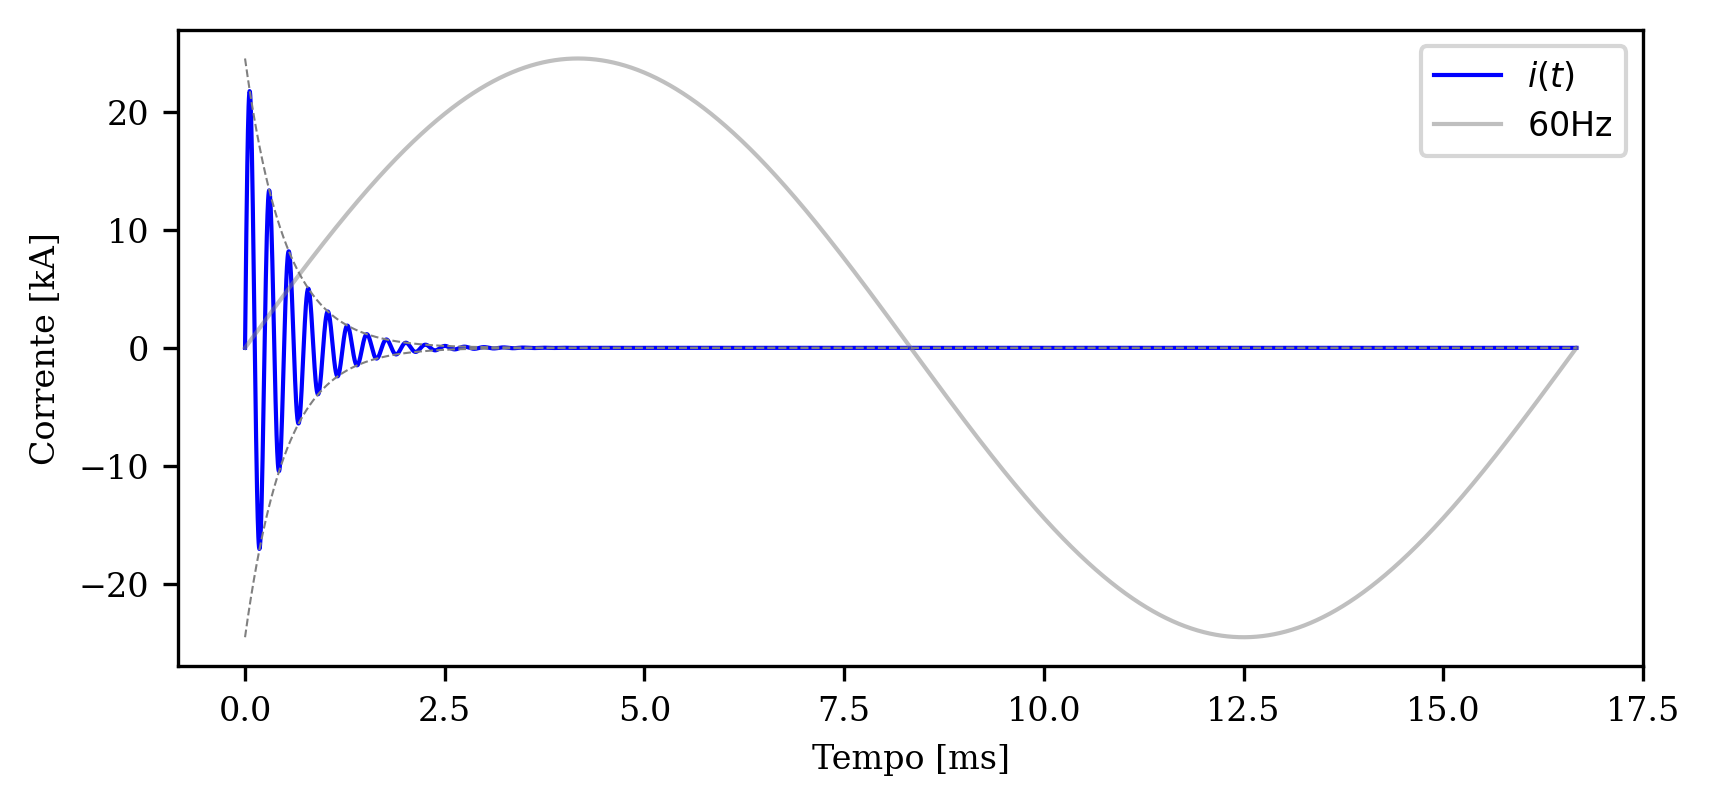
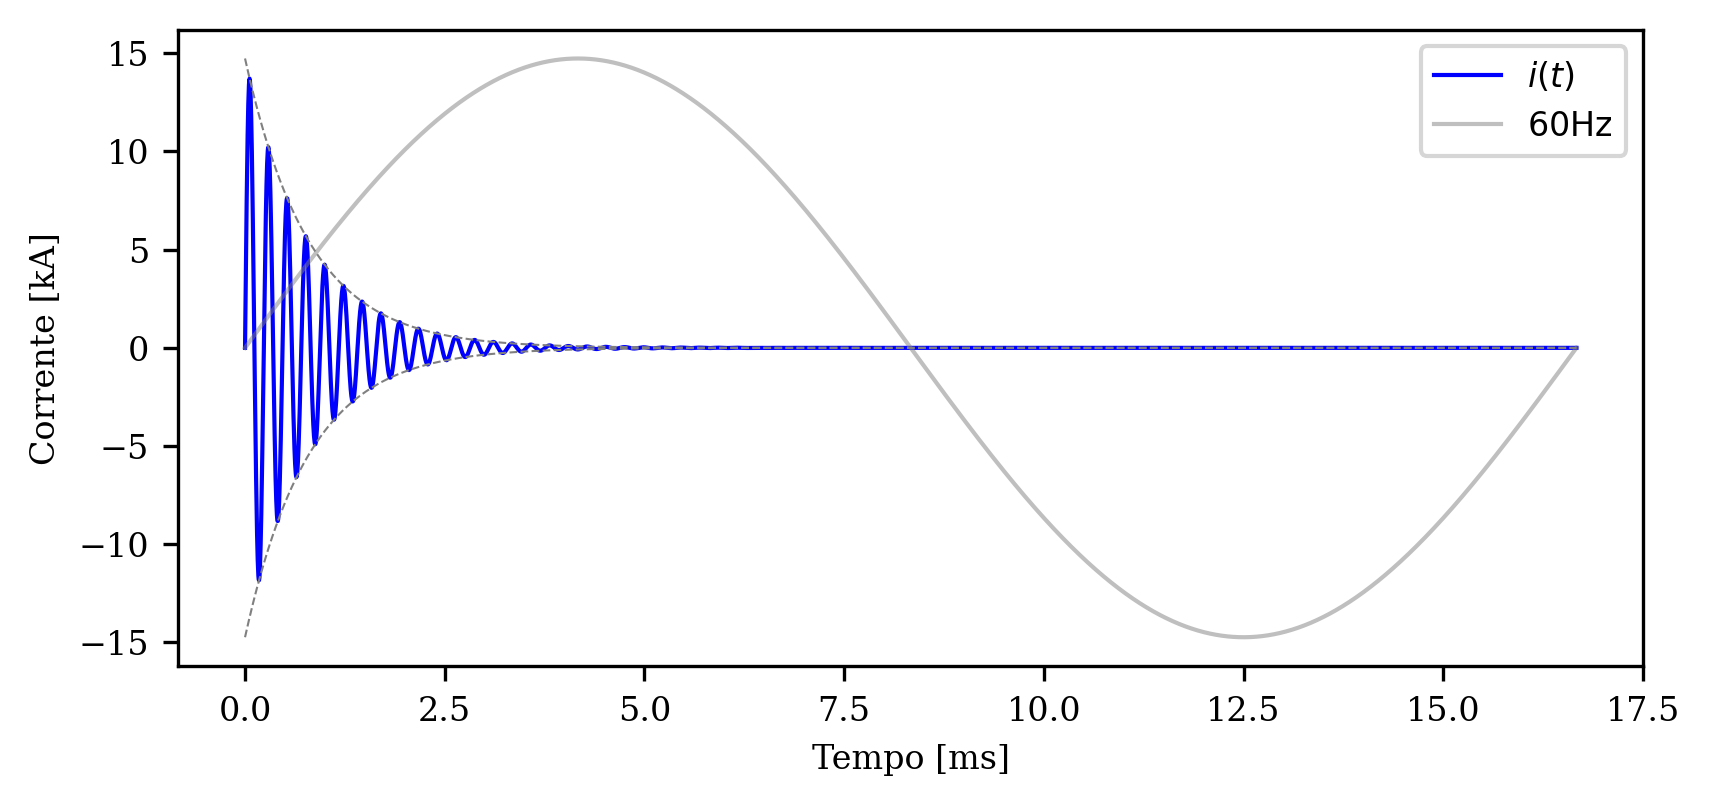
tensao transitoria

diff --git a/back_to_back_v7.py b/back_to_back_v7.py
@@ -4,20 +4,19 @@ aah@dax.energy
 """
 # cuidado
 INDUTOR_DEFAULT = 15.0
-REATIVOS_DEFAULT = 5.4
+REATIVOS_DEFAULT = 5.0
 TENSAO_DEFAULT = 13.8
-NUM_BANCOS_DEFAULT = 4
+NUM_BANCOS_DEFAULT = 2
 CORRENTE_CURTO_DEFAULT = 1000.0
 R_EQ_PARA_AMORTECIMENTO = 0.1
-
 
 import config
 import streamlit as st
 import shutil
 import matplotlib as mpl
+
 mpl.rcParams['font.family'] = 'serif'
 from funcoes_auxiliares import *
-
 
 # Set the language and locale
 text, language_key, format_number = config.configure_language_and_locale()
@@ -40,8 +39,7 @@ with col0:
     if V_ff is None or f_fund is None or I_curto_circuito is None:
         st.error("Por favor, insira valores válidos.")
 
-    nr_bancos = st.slider(text["number_of_banks"], min_value=2, max_value=20, value=5)
-
+    nr_bancos = st.slider(text["number_of_banks"], min_value=2, max_value=20, value=NUM_BANCOS_DEFAULT)
 
     V_fn = V_ff / np.sqrt(3)
     w_fund = 2 * np.pi * f_fund
@@ -100,9 +98,6 @@ with cols[ii]:
                                    key="L_reator" + str(k))
     L_reator[k] = parse_input(L_reator_input, language_key) * 1e-6 if L_reator_input else None
 
-
-
-
 # st.markdown(r"#### Bancos já energizados $(\#1$ ao $\#n)$")
 st.markdown(text["already_energized_banks"])  # "#### Bancos já energizados $(\#1$ ao $\#n)$"
 cols = st.columns(5)
@@ -157,15 +152,10 @@ for k in range(1, nr_bancos):
         )
         L_reator[k] = parse_input(L_reator_input, language_key) * 1e-6 if L_reator_input else None
 
-
-
-
-
-
-
 # ===============================================================================================
 # === serve para o isolado e o back-to-back
 soma_Q_3f = sum(Q_3f)
+
 Q_1f = Q_3f / 3
 I_fn = Q_1f / V_fn
 X = V_fn / I_fn
@@ -177,46 +167,41 @@ L = L_barra_mais_cabo + L_capacitor + L_reator
 X_curto_circuito = V_fn / I_curto_circuito
 L_curto_circuito = X_curto_circuito / w_fund
 L_eq_isolado = L_curto_circuito + L[0]
-w_isolado = 1 / np.sqrt( L_eq_isolado * C[0] )
+w_isolado = 1 / np.sqrt(L_eq_isolado * C[0])
 num_i = V_fn * np.sqrt(2)
 den_i = L_eq_isolado * w_isolado
 i_pico_inicial_isolado = FC * num_i / den_i
 
 # === back-to-back ===
 df, i_curto, i_pico_inicial, sigma, omega, t, i_pico_inicial_list = \
-    calcular_back_to_back(C, L, R_EQ_PARA_AMORTECIMENTO, \
-                          V_fn, FC, I_fn, w_isolado, i_pico_inicial_isolado, \
+    calcular_back_to_back(C, L, R_EQ_PARA_AMORTECIMENTO,
+                          V_fn, FC, I_fn, w_isolado, i_pico_inicial_isolado,
                           nr_bancos, Q_3f, Q_1f, V_ff, X, L_reator
-    )
-
+                          )
 
 i_pico_inicial_todos_pu = np.array([i_pico_inicial_isolado] + i_pico_inicial_list) / (I_fn * np.sqrt(2))
 
-
 # Gera o gráfico
-fig = plot_inrush(t, i_curto, i_pico_inicial, sigma, f_fund, text)
+fig = plot_inrush(t, i_curto, i_pico_inicial, omega, sigma, f_fund, text, X_curto_circuito, X, I_fn)
 st.plotly_chart(fig, use_container_width=True)
-
-
-
 
 st.markdown(text["results"])
 
 st.write(text["nominal_current"], format_input(I_fn[0], language_key), "A")
 st.markdown(text["for_single_bank"])
 corrente_pico_bancos_isolado = i_pico_inicial_isolado / (I_fn[0] * np.sqrt(2))
-st.write(text["peak_current_energization"], format_input(i_pico_inicial_isolado, language_key), "${\\rm A}$   (", format_input(np.round(corrente_pico_bancos_isolado, 1), language_key), "$\\times I_{\\rm{rated}}$)")
-st.write(text["oscillation_frequency"], format_input(w_isolado / (2 * np.pi), language_key), "${\\rm Hz}$   (", format_input(np.round(w_isolado / w_fund, 1), language_key), "$\\times f_1$)")
+st.write(text["peak_current_energization"], format_input(i_pico_inicial_isolado, language_key), "${\\rm A}$   (",
+         format_input(np.round(corrente_pico_bancos_isolado, 1), language_key), "$\\times I_{\\rm{rated}}$)")
+st.write(text["oscillation_frequency"], format_input(w_isolado / (2 * np.pi), language_key), "${\\rm Hz}$   (",
+         format_input(np.round(w_isolado / w_fund, 1), language_key), "$\\times f_1$)")
 
 st.markdown(text["for_bank_with_others_energized"])
 corrente_pico_bancos_back_to_back = i_pico_inicial / (I_fn * np.sqrt(2))
-st.write(text["peak_current_energization"], format_input(i_pico_inicial, language_key), "${\\rm A}$   (", format_input(np.round(corrente_pico_bancos_back_to_back.max(), 1), language_key), "$\\times I_{\\rm{rated}}$)")
+st.write(text["peak_current_energization"], format_input(i_pico_inicial, language_key), "${\\rm A}$   (",
+         format_input(np.round(corrente_pico_bancos_back_to_back.max(), 1), language_key), "$\\times I_{\\rm{rated}}$)")
 freq_oscilacao = omega / (2 * np.pi)
-st.write(text["oscillation_frequency"], str(int(freq_oscilacao)), "${\\rm Hz}$   (", format_input(np.round(omega / w_fund, 1), language_key), "$\\times f_1$)")
-
-
-
-
+st.write(text["oscillation_frequency"], str(int(freq_oscilacao)), "${\\rm Hz}$   (",
+         format_input(np.round(omega / w_fund, 1), language_key), "$\\times f_1$)")
 
 st.markdown(text["conclusion"])
 
@@ -225,7 +210,7 @@ st.markdown(text["conclusion_text"])
 maxima_corrente_de_pico_dos_bancos = max(corrente_pico_bancos_isolado, corrente_pico_bancos_back_to_back.max())
 
 maxima_corrente_str = config.format_number(maxima_corrente_de_pico_dos_bancos, language_key)
-freq_oscilacao_str  = str(int(freq_oscilacao))
+freq_oscilacao_str = str(int(freq_oscilacao))
 
 if maxima_corrente_de_pico_dos_bancos < 100 and freq_oscilacao < 4250:
     conclusao1 = (text["adequate_reactor"] + maxima_corrente_str + "$\\le 100$ e $f_{\\rm osc} = $" +
@@ -236,9 +221,7 @@ else:
                   freq_oscilacao_str + "Hz > 4,25 kHz, " +
                   "IEEE Std C37.012, p. 16[$^{[2]}$](https://ieeexplore.ieee.org/document/7035261) e IEC 62271-100, Table 9 (Preferred values of rated capacitive switching currents), p. 45[$^{[3]}$](https://webstore.iec.ch/publication/62785).")
 
-
 st.write(conclusao1)
-
 
 st.markdown(text["bibliography"])
 col_bib1, col_bib2 = st.columns([1, 25])
@@ -286,15 +269,15 @@ with colunas[1]:
     """
 # ===============================================================================================================
 import relatorio
+
 base_filename = 'TEMPLATE_Relatorio_Inrush_DAX'
 arquivo_original_tex = f"{base_filename}_{language_key}.tex"
 relatorio.gerar_figura(t, i_pico_inicial, sigma, omega, f_fund)
 nome_arquivo_saida = f'Report_Inrush_DAX_{REATIVOS_DEFAULT}kVAr_{TENSAO_DEFAULT}kV_uH{INDUTOR_DEFAULT}'
 
-
 if st.button(text["latex_report"]):
     arquivo_original_tex = f"{base_filename}_{language_key}.tex"
-    arquivo_copiado_tex = nome_arquivo_saida+'.tex'
+    arquivo_copiado_tex = nome_arquivo_saida + '.tex'
     shutil.copy(arquivo_original_tex, arquivo_copiado_tex)
 
     valores = relatorio.format_values(
@@ -325,4 +308,3 @@ if st.button(text["latex_report"]):
     )
 
     st.write(text["use_xelatex_compiler"])
-

diff --git a/funcoes_auxiliares.py b/funcoes_auxiliares.py
@@ -154,19 +154,19 @@ def calcular_back_to_back(C, L, R_EQ_PARA_AMORTECIMENTO, V_fn, FC, I_fn, w_isola
 import plotly.graph_objects as go
 import numpy as np
 
-def plot_inrush(t, i_curto, i_pico_inicial, sigma, f_fund, text):
+def plot_inrush(t, i_curto, i_pico_inicial, omega, sigma, f_fund, text, X_curto_circuito, X, I_fn):
     fig = go.Figure()
 
     fig.add_trace(go.Scatter(
         x=t * 1e3,
-        y=i_curto / 1e3,
+        y=i_curto / I_fn.max() + np.cos(f_fund*t+np.pi/2),
         name=text["instantaneous"],
         line=dict(shape='linear', color='rgb(0, 0, 255)', width=2)
     ))
 
     fig.add_trace(go.Scatter(
         x=t * 1e3,
-        y=i_pico_inicial * np.exp(-sigma * t) / 1e3,
+        y=i_pico_inicial * np.exp(-sigma * t) / I_fn.max(),
         name=text["envelope"],
         line=dict(shape='linear', color='rgb(0, 0, 0)', width=1, dash='dot'),
         connectgaps=True)
@@ -174,7 +174,7 @@ def plot_inrush(t, i_curto, i_pico_inicial, sigma, f_fund, text):
 
     fig.add_trace(go.Scatter(
         x=t * 1e3,
-        y=-i_pico_inicial * np.exp(-sigma * t) / 1e3,
+        y=-i_pico_inicial * np.exp(-sigma * t) / I_fn.max(),
         name=text["envelope"],
         line=dict(shape='linear', color='rgb(0, 0, 0)', width=1, dash='dot'),
         connectgaps=True)
@@ -182,17 +182,24 @@ def plot_inrush(t, i_curto, i_pico_inicial, sigma, f_fund, text):
 
     fig.add_trace(go.Scatter(
         x=t * 1e3,
-        y=i_pico_inicial * np.sin(2 * np.pi * f_fund * t) / 1e3,
+        y=(1 - X_curto_circuito.max() / X.max()) * i_curto/i_curto.max() + np.cos(2 * np.pi * f_fund * t),
         name=text["reference_60hz"],
         line=dict(shape='linear', color='rgb(0.2, 0.2, 0.2)', width=0.5),
-        connectgaps=True)
-    )
+        connectgaps=True,
+        yaxis='y2'  # Especifica que esse traço está no eixo secundário
+    ))
 
     fig.update_layout(
         legend_title_text=text["current_label"],
         title_text=text["title"],
         xaxis_title=text["time_label"],
-        yaxis_title=text["current_axis_label"]
+        yaxis_title=text["current_axis_label"],
+        yaxis2=dict(
+            overlaying='y',  # Colocar o eixo secundário sobre o eixo primário
+            side='right',  # Eixo secundário à direita
+            showgrid=False,  # Opcional: remover a grade do eixo secundário
+            range=[-1.5, 1.5]  # Definir o intervalo do eixo secundário entre -1.5 e 1.5
+        )
     )
 
     return fig

diff --git a/dicionarios.py b/dicionarios.py
@@ -28,7 +28,7 @@ translations = {
         "reference_60hz": "Reference 60 Hz",
         "current_label": "Current:",
         "time_label": "Time [ms]",
-        "current_axis_label": "Current [kA]",
+        "current_axis_label": "Current [pu]",
         "use_xelatex_compiler": "use the xelatex compiler",
     },
     "pt": {
@@ -59,7 +59,7 @@ translations = {
         "reference_60hz": "Referência 60 Hz",
         "current_label": "Corrente:",
         "time_label": "Tempo [ms]",
-        "current_axis_label": "Corrente [kA]",
+        "current_axis_label": "Corrente [pu]",
         "use_xelatex_compiler": "usar o compilador xelatex",
     },
     "zh": {
@@ -90,7 +90,7 @@ translations = {
         "reference_60hz": "参考 60 Hz",
         "current_label": "电流:",
         "time_label": "时间 [ms]",
-        "current_axis_label": "电流 [kA]",
+        "current_axis_label": "电流 [pu]",
         "use_xelatex_compiler": "使用xelatex编译器",
     },
     "es": {
@@ -121,7 +121,7 @@ translations = {
         "reference_60hz": "Referencia 60 Hz",
         "current_label": "Corriente:",
         "time_label": "Tiempo [ms]",
-        "current_axis_label": "Corriente [kA]",
+        "current_axis_label": "Corriente [pu]",
         "use_xelatex_compiler": "usar el compilador xelatex"
     },
     "fr": {
@@ -152,7 +152,7 @@ translations = {
         "reference_60hz": "Référence 60 Hz",
         "current_label": "Courant:",
         "time_label": "Temps [ms]",
-        "current_axis_label": "Courant [kA]",
+        "current_axis_label": "Courant [pu]",
         "use_xelatex_compiler": "utiliser le compilateur xelatex",
     },
     "de": {
@@ -183,7 +183,7 @@ translations = {
         "reference_60hz": "Referenz 60 Hz",
         "current_label": "Strom:",
         "time_label": "Zeit [ms]",
-        "current_axis_label": "Strom [kA]",
+        "current_axis_label": "Strom [pu]",
         "use_xelatex_compiler": "den xelatex-Compiler verwenden",
     }
 }
